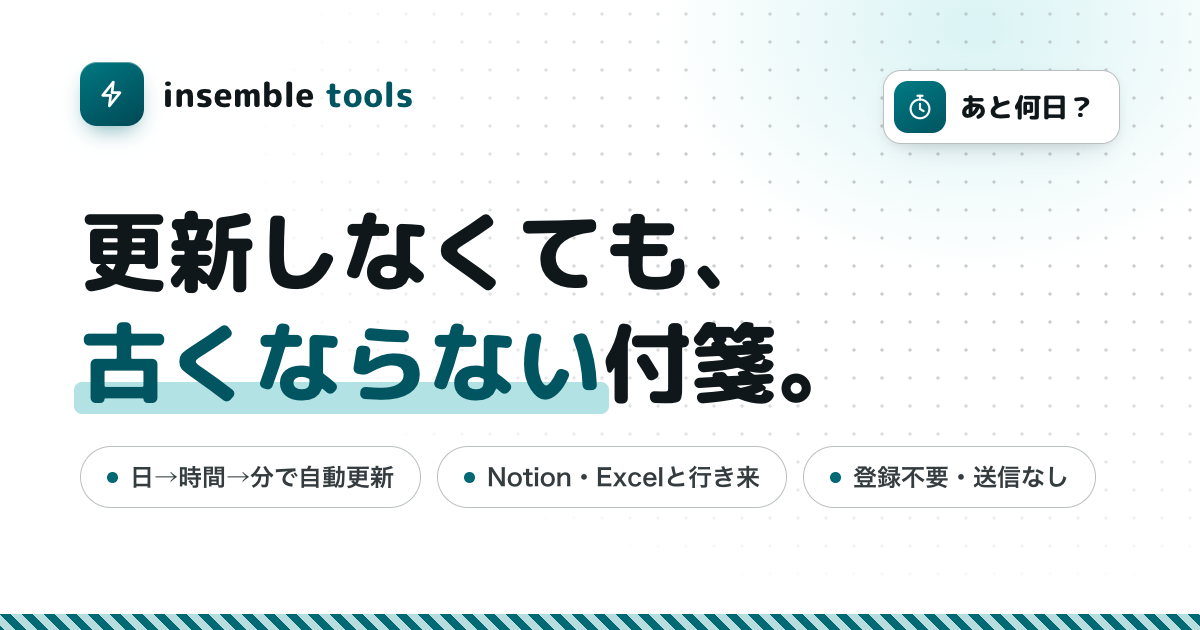
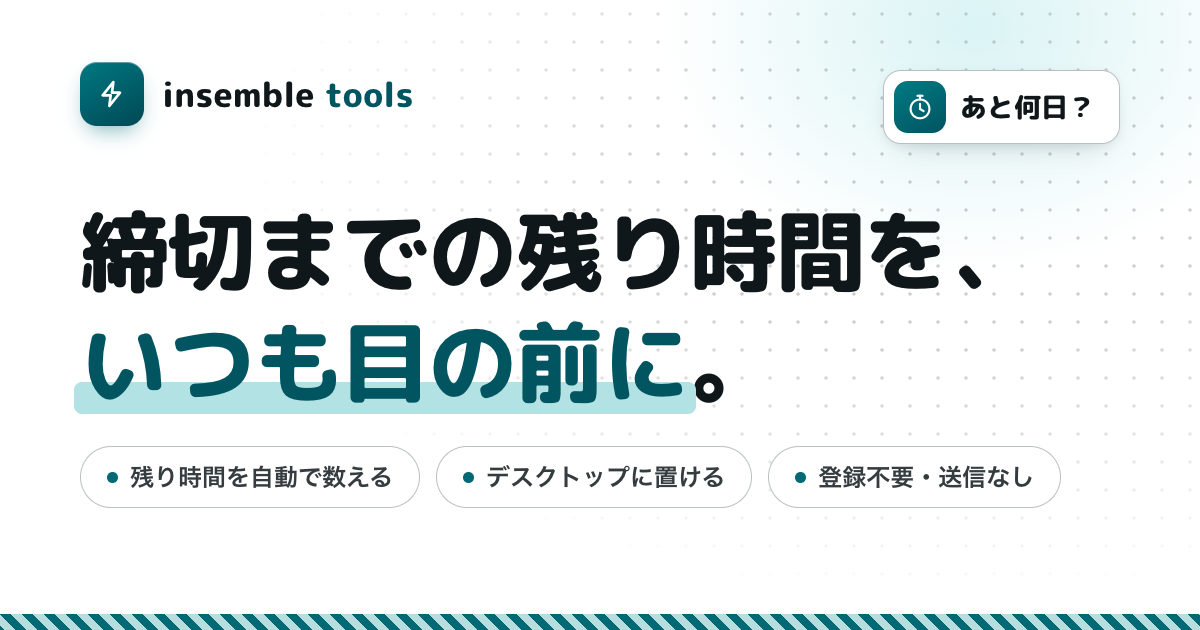
あと何日？に、きじかんへの案内とアプリとして置く導線を足し、見出しを分かりやすくする
- 1か月以上先の期日では、メールで知らせる「きじかん」を案内する（リンクだけで、入力は渡さない）
- どのブラウザでも「アプリとして置く」を出し、確認を出せないブラウザでは置き方を案内する
- 締切を2件入れたら、一度だけ「置けます」と声をかける
- 見出しを「締切までの残り時間を、いつも目の前に。」にし、共有画像も作り直す
- サンプルのお知らせを落ち着いた色にし、トーストを2行まで折り返す
- 画面とページの文言を見直す（日付ボタンの説明の誤りなども直す）

diff --git a/src/scripts/tools/deadline.js b/src/scripts/tools/deadline.js
@@ -21,9 +21,10 @@ function init() {
     mini: $("#an-mini"), mtoday: $(".an-mtoday"), mlist: $("#an-mlist"), mempty: $("#an-mempty"), mcount: $("#an-mcount"), mnext: $("#an-mnext"),
     full: $("#an-full"), dlN: $("#an-dl-n"), open: $("#an-open"), samples: $("#an-samples"), clearSamples: $("#an-clear-samples"),
     backup: $("#an-backup"), backupT: $("#an-backup-t"), backupNo: $("#an-backup-no"), backupYes: $("#an-backup-yes"),
+    place: $("#an-place"), placeT: $("#an-place-t"), placeNo: $("#an-place-no"), placeYes: $("#an-place-yes"),
     composer: $("#an-composer"), cmodeT: $("#an-cmode-t"), mode: $("#an-mode"), one: $("#an-one"), bulk: $("#an-bulk"),
     title: $("#an-title"), dchips: $("#an-dchips"), date: $("#an-date"), tchips: $("#an-tchips"), time: $("#an-time"),
-    eg: $("#an-eg"), bulkIn: $("#an-bulk-in"), bres: $("#an-bres"), preview: $("#an-preview"), cancel: $("#an-cancel"), submit: $("#an-submit"),
+    kj: $("#an-kj"), eg: $("#an-eg"), bulkIn: $("#an-bulk-in"), bres: $("#an-bres"), preview: $("#an-preview"), cancel: $("#an-cancel"), submit: $("#an-submit"),
     cards: $("#an-cards"), empty: $("#an-empty"), first: $("#an-first"),
     done: $("#an-done"), dtoggle: $("#an-dtoggle"), dn: $("#an-dn"), dlist: $("#an-dlist"),
     todayBtn: $("#an-today-btn"), tdate: $("#an-tdate"), tcount: $("#an-tcount"), tbody: $("#an-tbody"), tbar: $("#an-tbar"),
@@ -33,6 +34,12 @@ function init() {
   const motion = !reduceMotion();
   const standalone = () => window.matchMedia?.("(display-mode: standalone)").matches || navigator.standalone === true;
   if (standalone()) document.documentElement.classList.add("an-app");
+  // アプリとしての置き方を、ブラウザごとに分ける（下の「アプリとして置く」で使う）
+  const ua = navigator.userAgent;
+  const isIOS = /iPhone|iPad|iPod/.test(ua) || (/Macintosh/.test(ua) && navigator.maxTouchPoints > 1); // iPadOS は Mac と名乗る
+  const isMacSafari = !isIOS && /Macintosh/.test(ua) && /Safari\//.test(ua) && !/Chrome|Chromium|Edg|Firefox|OPR/.test(ua);
+  const isAndroid = /Android/.test(ua);
+  const isChromium = !isIOS && !isAndroid && /Chrome\/|Edg\//.test(ua); // パソコンの Chrome・Edge など
   const baseTitle = document.title;
   // タブ名は残り時間で変わるので、アクセス解析（GA）にはページ本来のタイトルだけを送る
   window.gtag?.("set", { page_title: baseTitle });
@@ -59,7 +66,7 @@ function init() {
   const stored = load();
   let data = stored ? tidy(normalize(stored, t0), t0) : { ...normalize(null, t0), ...samples(t0) };
   if (!stored) data.ui.mini = standalone(); // アプリとして開いた初回はミニから
-  const ui = { composer: false, mode: "one", dDate: "", dTime: "23:59", showDone: false, noticeOff: "", fresh: null, fx: new Set(), bip: null, lastDay: ymd(t0) };
+  const ui = { composer: false, mode: "one", dDate: "", dTime: "23:59", showDone: false, noticeOff: "", fresh: null, fx: new Set(), bip: null, placeGuide: false, lastDay: ymd(t0) };
 
   /* ---------- 小さな道具 ---------- */
   const h = (tag, cls, text) => { const n = document.createElement(tag); if (cls) n.className = cls; if (text != null) n.textContent = text; return n; };
@@ -129,8 +136,8 @@ function init() {
     const t = c.d.title;
     n.querySelector('[data-r="title"]').textContent = t;
     n.querySelector('[data-a="done"]').setAttribute("aria-label", `「${t}」を完了にする`);
-    n.querySelector('[data-a="fx"]').setAttribute("aria-label", `「${t}」の期限をExcel・スプレッドシートで計算する関数`);
-    n.querySelector('[data-a="del"]').setAttribute("aria-label", `「${t}」を削除`);
+    n.querySelector('[data-a="fx"]').setAttribute("aria-label", `「${t}」の残り日数をExcel・スプレッドシートで計算する関数を表示`);
+    n.querySelector('[data-a="del"]').setAttribute("aria-label", `「${t}」を削除する`);
     n.querySelector('[data-a="del"]').title = "削除";
     if (ui.fresh === c.d.id) replay(n, "is-in");
     return n;
@@ -230,7 +237,7 @@ function init() {
       el.dlist.replaceChildren(...doneArr.map((d) => {
         const li = h("li");
         const s = h("span", "an-sumi", "済"); s.setAttribute("aria-hidden", "true");
-        const b = h("button", null, "戻す"); b.type = "button"; b.dataset.id = d.id; b.setAttribute("aria-label", `「${d.title}」を戻す`);
+        const b = h("button", null, "戻す"); b.type = "button"; b.dataset.id = d.id; b.setAttribute("aria-label", `「${d.title}」を未完了に戻す`);
         li.append(s, h("span", "an-dt", d.title), h("small", null, md(d.doneAt) + " 完了"), b);
         return li;
       }));
@@ -239,6 +246,7 @@ function init() {
     const ownN = own().length;
     el.backup.hidden = !(canStore && !data.ui.backupAsked && ownN >= 5);
     if (!el.backup.hidden) setText(el.backupT, `締切が${ownN}件になりました。`);
+    renderPlace(ownN);
     renderNotice(); renderMini(); renderTitle();
   }
   function renderNotice() {
@@ -285,7 +293,7 @@ function init() {
     data.deadlines = data.deadlines.map((d) => (d.id === b.dataset.id ? { ...d, done: false, doneAt: 0 } : d));
     persist(); renderAll();
   });
-  el.clearSamples.addEventListener("click", () => { const prev = dropSamples(); if (prev) { persist(); renderAll(); toast("サンプルを片付けました", prev); } });
+  el.clearSamples.addEventListener("click", () => { const prev = dropSamples(); if (prev) { persist(); renderAll(); toast("サンプルを片づけました", prev); } });
 
   /* ---------- 締切を追加 ---------- */
   const DCHIPS = () => {
@@ -326,7 +334,7 @@ function init() {
       const r = parseBulk(el.bulkIn.value, now);
       el.bres.replaceChildren();
       if (r.ok.length) el.bres.append(h("b", null, `${r.ok.length}件を追加できます。`));
-      if (r.bad.length) el.bres.append(h("span", "is-bad", ` ${r.bad.slice(0, 3).map((b) => b.line + "行目").join("・")}${r.bad.length > 3 ? " ほか" : ""}は日付が読めませんでした。`));
+      if (r.bad.length) el.bres.append(h("span", "is-bad", ` ${r.bad.slice(0, 3).map((b) => b.line + "行目").join("・")}${r.bad.length > 3 ? "ほか" : ""}は読み取れないため、追加されません。タスク名と期限（例：10月10日）を1行に並べてください。`));
       text = r.ok.length ? `${r.ok.length}件` : "貼り付けてください"; cls = r.ok.length ? "" : "is-mute"; ok = r.ok.length > 0;
     } else {
       const due = dueAt(ui.dDate, ui.dTime);
@@ -334,6 +342,8 @@ function init() {
       else if (due < now) { text = "その日時は過ぎています"; cls = "is-past"; }
       else text = "あと " + ptext(parts(due - now).p);
       ok = !!due && !!el.title.value.trim();
+      // 1か月以上先なら、メールで知らせる「きじかん」を1行だけ案内（きじかんが扱える1年先まで）
+      el.kj.hidden = !(due && due - now >= 30 * DAY && due - now <= 365 * DAY);
     }
     setText(el.preview, text); el.preview.className = cls;
     el.submit.setAttribute("aria-disabled", String(!ok));
@@ -357,7 +367,7 @@ function init() {
     persist(); renderComposer(); renderAll();
     ui.fresh = null;
     if (made.length > 1) toast(`${made.length}件の締切を追加しました`, prev || snapWithout(made));
-    else if (prev) toast("サンプルを片付けました", prev);
+    else if (prev) toast("サンプルを片づけました", prev);
     el.open.focus();
   }
   const snapWithout = (made) => { const ids = new Set(made.map((m) => m.id)); return { tasks: [...data.tasks], deadlines: data.deadlines.filter((d) => !ids.has(d.id)) }; };
@@ -388,15 +398,16 @@ function init() {
   el.date.addEventListener("change", () => { ui.dDate = el.date.value; renderComposer(); });
   el.time.addEventListener("change", () => { ui.dTime = el.time.value || "23:59"; renderComposer(); });
   el.bulkIn.addEventListener("input", () => renderPreview());
-  el.mode.addEventListener("click", () => {
-    ui.mode = ui.mode === "bulk" ? "one" : "bulk";
+  el.mode.addEventListener("click", () => setMode(ui.mode === "bulk" ? "one" : "bulk"));
+  function setMode(mode) {
+    ui.mode = mode;
     if (ui.mode === "bulk") {
       const y = new Date().getFullYear(), m = new Date().getMonth() + 1, d2 = (n) => `${y}-${pad2(m)}-${pad2(n)}`;
       el.eg.textContent = `サイト公開\t${d2(28)}\n原稿確認\t${d2(20)} 18:00\n見積提出, 10月31日`;
     }
     renderComposer();
     (ui.mode === "bulk" ? el.bulkIn : el.title).focus();
-  });
+  }
 
   /* ---------- 今日やること ---------- */
   const taskEls = new Map();
@@ -411,7 +422,7 @@ function init() {
       li.innerHTML = `<button type="button" class="an-chk">${ICON.tick}</button><span class="an-tx"><span></span><i></i></span><span class="an-tag" hidden></span><button type="button" class="an-x" title="削除">${ICON.x}</button>`;
       li.querySelector(".an-tx span").textContent = t.text;
       li.querySelector(".an-chk").setAttribute("aria-label", `「${t.text}」を完了にする`);
-      li.querySelector(".an-x").setAttribute("aria-label", `「${t.text}」を削除`);
+      li.querySelector(".an-x").setAttribute("aria-label", `「${t.text}」を削除する`);
       if (ui.fresh === t.id) replay(li, "is-in");
       return li;
     }, (li, { t }) => {
@@ -443,7 +454,7 @@ function init() {
     data.tasks = [t, ...data.tasks];
     el.task.value = "";
     ui.fresh = t.id; persist(); renderAll(); ui.fresh = null;
-    if (prev) toast("サンプルを片付けました", prev);
+    if (prev) toast("サンプルを片づけました", prev);
   }
   el.task.addEventListener("keydown", (e) => { if (e.key === "Enter" && !e.isComposing) { e.preventDefault(); addTask(); } });
   el.tasks.addEventListener("click", (e) => {
@@ -465,15 +476,15 @@ function init() {
   /* ---------- 書き出し ---------- */
   el.tsv.addEventListener("click", async () => {
     const list = own().filter((d) => !d.done).sort((a, b) => a.dueDate - b.dueDate);
-    if (!list.length) return toast(hasSamples() ? "まだ自分の締切がありません（サンプルはコピーしません）" : "コピーする締切がありません");
+    if (!list.length) return toast(hasSamples() ? "自分の締切を追加すると、コピーできます" : "締切を追加すると、ここからコピーできます");
     const ok = await copyText(toTsv(list), null);
-    toast(ok === false ? "コピーできませんでした。ブラウザの設定をご確認ください" : `${list.length}件をコピーしました。Notion・Excelに貼り付けできます`);
+    toast(ok === false ? "コピーできませんでした。「Excelに書き出す」なら、ファイルで持ち出せます" : `${list.length}件をコピーしました。Notion・Excelに貼れます`);
   });
   function exportCsv() {
     const list = own();
-    if (!list.length) return toast("書き出す締切がありません");
+    if (!list.length) return toast("締切を追加すると、書き出せます");
     download(new Blob([toCsv(list)], { type: "text/csv" }), `締切一覧_${ymd(Date.now())}.csv`);
-    toast("Excel用に書き出しました（開くたび残り日数が更新されます）");
+    toast("書き出しました。開くたびに残り日数が更新されます");
   }
   el.csv.addEventListener("click", exportCsv);
   el.backupYes.addEventListener("click", () => { data.ui.backupAsked = true; persist(); exportCsv(); renderDeadlines(); });
@@ -511,7 +522,7 @@ function init() {
     } catch (e) {} // 大きさを変えられないブラウザでは何もしない
   }
   function renderStoreNote() {
-    setText(el.store, canStore ? "データはこのブラウザの中だけに保存されます" : "このブラウザでは保存できないため、ページを閉じると消えます");
+    setText(el.store, canStore ? "データはこのブラウザの中だけに保存されます" : "このブラウザでは保存できないため、ページを閉じると内容が消えます。残したい締切は「Excelに書き出す」で保存してください");
   }
 
   /* ---------- 時計と、時間の経過（タイマーは1つ） ---------- */
@@ -551,15 +562,60 @@ function init() {
   });
   document.addEventListener("visibilitychange", () => { if (!document.hidden) tick(); });
 
-  /* ---------- アプリとして置く（PWA） ---------- */
-  window.addEventListener("beforeinstallprompt", (e) => { e.preventDefault(); ui.bip = e; el.install.hidden = standalone(); });
-  window.addEventListener("appinstalled", () => { ui.bip = null; el.install.hidden = true; });
-  el.install.addEventListener("click", async () => {
-    const e = ui.bip; if (!e) return;
-    e.prompt();
-    try { await e.userChoice; } catch (x) {}
-    ui.bip = null; el.install.hidden = true;
-  });
+  /* ---------- アプリとして置く（PWA） ----------
+     Chrome・Edge はインストールの確認をそのまま出す。確認を出せないブラウザ（iPhone・iPad、Mac の Safari、
+     Android のほかのブラウザ）は、置き方を案内する。Firefox のパソコン版は置けないので、ボタンごと出さない
+     自分の締切が2件になったら一度だけ「置けます」と声をかける（バックアップの声かけと重なるときは、そちらを先に） */
+  const HOWTO = {
+    ios: "画面の共有ボタン（四角に上向きの矢印）を押して、「ホーム画面に追加」を選んでください。",
+    mac: "メニューバーの「ファイル」から「Dockに追加」を選んでください。macOS 14 以降の Safari で置けます。置いたあとは、Dock からアプリのように開けます。",
+    android: "ブラウザのメニュー（︙）を開いて、「ホーム画面に追加」または「アプリをインストール」を選んでください。",
+    chrome: "アドレスバーの右端にあるインストールのボタン（画面に下向き矢印のマーク）を押すか、メニュー（︙）の「キャスト、保存、共有」から「ページをアプリとしてインストール」を選んでください。すでに置いてあるときは、パソコンのアプリ一覧から開けます。",
+    edge: "アドレスバーの右端にあるアプリのボタンを押すか、メニュー（…）の「アプリ」から「このサイトをアプリとしてインストール」を選んでください。すでに置いてあるときは、パソコンのアプリ一覧から開けます。",
+  };
+  function placeWay() {
+    if (standalone()) return null;
+    if (ui.bip) return "prompt";
+    return isIOS ? "ios" : isMacSafari ? "mac" : isAndroid ? "android" : isChromium ? (/Edg\//.test(ua) ? "edge" : "chrome") : null;
+  }
+  function renderPlace(ownN = own().length) {
+    const way = placeWay();
+    el.install.hidden = !way;
+    const guide = ui.placeGuide && way && way !== "prompt";
+    const offer = !data.ui.placeAsked && ownN >= 2 && el.backup.hidden;
+    el.place.hidden = !(way && (guide || offer));
+    if (el.place.hidden) return;
+    const phone = isIOS || isAndroid;
+    el.placeT.replaceChildren(...(guide
+      ? [h("b", null, phone ? "ホーム画面への置き方：" : way === "mac" ? "Dock への置き方：" : "アプリとしての置き方："), HOWTO[way]]
+      : [h("b", null, phone ? "この付箋は、ホーム画面に置けます。" : "この付箋は、画面の隅に置いておけます。"),
+        phone ? "アプリのようにすぐ開けて、ネットにつながっていなくても使えます。" : "アプリとして置くと、ブラウザを開かなくても残り時間が目に入ります。"]));
+    setText(el.placeNo, guide ? "閉じる" : "今はいい");
+    el.placeYes.hidden = guide;
+    setText(el.placeYes, way === "prompt" ? "置く" : "置き方を見る");
+  }
+  async function place() {
+    data.ui.placeAsked = true; persist();
+    const e = ui.bip;
+    if (e) {
+      ui.bip = null;
+      e.prompt();
+      try { await e.userChoice; } catch (x) {}
+    } else ui.placeGuide = true;
+    renderPlace();
+  }
+  window.addEventListener("beforeinstallprompt", (e) => { e.preventDefault(); ui.bip = e; renderPlace(); });
+  window.addEventListener("appinstalled", () => { ui.bip = null; renderPlace(); });
+  // ヘッダーのボタンと、読みもの（使い方・FAQ）の「アプリとして置く」から
+  async function placeNow(scroll = true) {
+    if (!placeWay()) { toast(standalone() ? "すでにアプリとして開いています" : "Chrome・Edge・Safariで開くと、アプリとして置けます"); return; }
+    if (data.ui.mini) setMini(false); // 置き方の案内は本体の欄に出す
+    await place();
+    if (scroll && !el.place.hidden) { el.place.scrollIntoView?.({ block: "nearest", behavior: motion ? "smooth" : "auto" }); el.placeNo.focus({ preventScroll: true }); }
+  }
+  el.install.addEventListener("click", () => placeNow());
+  el.placeYes.addEventListener("click", place);
+  el.placeNo.addEventListener("click", () => { data.ui.placeAsked = true; ui.placeGuide = false; persist(); renderPlace(); });
   if ("serviceWorker" in navigator && import.meta.env.PROD) {
     navigator.serviceWorker.register("/deadline/sw.js", { scope: "/deadline/" }).catch(() => {});
   }
@@ -571,7 +627,23 @@ function init() {
     el.task.focus({ preventScroll: true });
     el.task.scrollIntoView?.({ block: "nearest" });
   }
-  const runAction = (kind) => { if (kind === "add") openComposer(); else if (kind === "today") openToday(); };
+  const runAction = (kind) => {
+    if (kind === "add") openComposer();
+    else if (kind === "bulk") { openComposer(); setMode("bulk"); }
+    else if (kind === "today") openToday();
+    else if (kind === "place") placeNow();
+  };
+  // 読みもの（使い方・FAQ）の操作リンク（ToolPage の cta）：その操作を始めて、操作する場所を画面の真ん中へ
+  // （スクロールはここで1回だけ。各操作の中のスクロールと重ねると、なめらかなスクロール同士で打ち消し合う）
+  document.addEventListener("click", async (e) => {
+    const a = e.target.closest?.("[data-tool-do]");
+    if (!a || e.button || e.metaKey || e.ctrlKey || e.shiftKey) return;
+    e.preventDefault();
+    const kind = a.dataset.toolDo;
+    if (kind === "place") await placeNow(false); else runAction(kind);
+    const target = kind === "place" ? (el.place.hidden ? root : el.place) : kind === "today" ? el.tbody.closest(".an-today") : kind === "bulk" ? el.bulkIn : el.composer;
+    target.scrollIntoView({ block: "center", behavior: motion ? "smooth" : "instant" }); // auto だと html の scroll-behavior:smooth が効いてしまう
+  });
 
   renderStoreNote();
   renderAll();

diff --git a/src/lib/deadline.js b/src/lib/deadline.js
@@ -77,8 +77,10 @@ export function view(d, now) {
 
 /** お知らせの1行：いちばん近い（いちばん緊急な）締切を代表にする */
 export function notice(cards) {
-  if (!cards.length) return { st: "normal", key: "none", msg: "いま、締切はありません。", sub: "締切を入れると、ここで残り時間を知らせます", dismissable: false };
+  if (!cards.length) return { st: "normal", key: "none", msg: "締切はまだありません", sub: "「締切を追加」から入れると、いちばん近い締切の残り時間をここで知らせます", dismissable: false };
   const c = cards[0], t = c.title, v = c.v;
+  // サンプルは落ち着いた色で。初めて開いた人に、自分の何かが期限切れになりそうな警告に見えないように
+  if (c.sample) return { st: "normal", key: "sample", msg: `サンプル：「${t}」まで ${v.short}`, sub: "自分の締切を入れると、ここで知らせます", dismissable: false };
   const near = cards.filter((x) => x.v.st !== "normal").length;
   const more = near > 1 ? `ほか${near - 1}件も近づいています` : "";
   let msg, sub;
@@ -87,7 +89,7 @@ export function notice(cards) {
   else if (v.st === "urgent") { msg = `「${t}」まで ${v.short}`; sub = v.pill; }
   else if (v.pill === "明日が期限") { msg = `「${t}」は明日が期限です`; sub = v.short; }
   else if (v.st === "caution") { msg = `「${t}」まで ${v.short}`; sub = ""; }
-  else { msg = `次の締切「${t}」まで ${v.short}`; sub = "いいペースです"; }
+  else { msg = `次の締切「${t}」まで ${v.short}`; sub = "3日以内の締切はありません"; }
   if (more) sub = sub ? `${sub} · ${more}` : more;
   return { st: v.st, key: `${c.id}:${v.st}:${v.pill}`, msg, sub, dismissable: v.st !== "normal" };
 }
@@ -100,7 +102,7 @@ export function formulas(due) {
     { label: "今日から期限まで（日）", code: `=${DATE}-TODAY()` },
     { label: "DATEDIFで日数", code: `=DATEDIF(TODAY(),${DATE},"D")`, note: "期限を過ぎるとエラーになります" },
     { label: "残り時間（時間）", code: `=ROUNDDOWN((${DATE}+TIME(${d.getHours()},${d.getMinutes()},0)-NOW())*24,0)` },
-    { label: "A2の日付まで（日）", code: "=A2-TODAY()", note: "A2に期限日を入れておく形" },
+    { label: "A2の日付まで（日）", code: "=A2-TODAY()", note: "A2のセルに期限日を入れて使います" },
   ];
 }
 
@@ -117,7 +119,7 @@ export function toCsv(deadlines) {
   const q = (v) => '"' + String(v).replace(/"/g, '""') + '"';
   const safe = noFormula;
   const fmt = (t) => { const d = new Date(t); return `${d.getFullYear()}/${d.getMonth() + 1}/${d.getDate()} ${hm(t)}`; };
-  const rows = [["締切", "期限", "残り日数", "残り時間", "状態", "完了"]];
+  const rows = [["締切", "期限", "残り日数", "残り時間（時間）", "状態", "完了"]];
   [...deadlines].sort((a, b) => a.dueDate - b.dueDate).forEach((d, i) => {
     const r = i + 2;
     rows.push([safe(oneLine(d.title)), fmt(d.dueDate), `=IF(F${r}="済","",INT(B${r})-TODAY())`, `=IF(F${r}="済","",ROUNDDOWN((B${r}-NOW())*24,0))`,
@@ -225,7 +227,7 @@ export function normalize(raw, now) {
   // win：アプリとして置いたときの、ミニにする前のウィンドウの大きさ
   const okSize = (v) => Number.isFinite(v) && v >= 200 && v <= 8000;
   const win = ui.win && okSize(ui.win.w) && okSize(ui.win.h) ? { w: Math.round(ui.win.w), h: Math.round(ui.win.h) } : null;
-  return { version: VERSION, tasks, deadlines, ui: { mini: !!ui.mini, todayOpen: !!ui.todayOpen, backupAsked: !!ui.backupAsked, win } };
+  return { version: VERSION, tasks, deadlines, ui: { mini: !!ui.mini, todayOpen: !!ui.todayOpen, backupAsked: !!ui.backupAsked, placeAsked: !!ui.placeAsked, win } };
 }
 
 /** 片づけ：前の日までに完了した「今日やること」と、30日より前に完了した締切を消す */

diff --git a/public/deadline/sw.js b/public/deadline/sw.js
@@ -3,7 +3,7 @@
    ・/_astro/ のファイル（名前にハッシュ付き＝中身が変わらない）とアイコン：保存しておいたものを先に使う
    ・文字（Google Fonts）：保存しておいたものを出しつつ、裏で新しくする
    入力した締切などのデータは localStorage にあり、ここでは扱わない。計測タグ（GA・Clarity）にも触らない */
-const CACHE = "atonannichi-v2";
+const CACHE = "atonannichi-v3";
 const PAGE = "/deadline/";
 const FIXED = ["/deadline/manifest.webmanifest", "/deadline/icon-192.png", "/deadline/icon-512.png", "/deadline/icon-maskable-512.png", "/deadline/apple-touch-icon.png"];
 const FONT_HOSTS = ["fonts.googleapis.com", "fonts.gstatic.com"];
